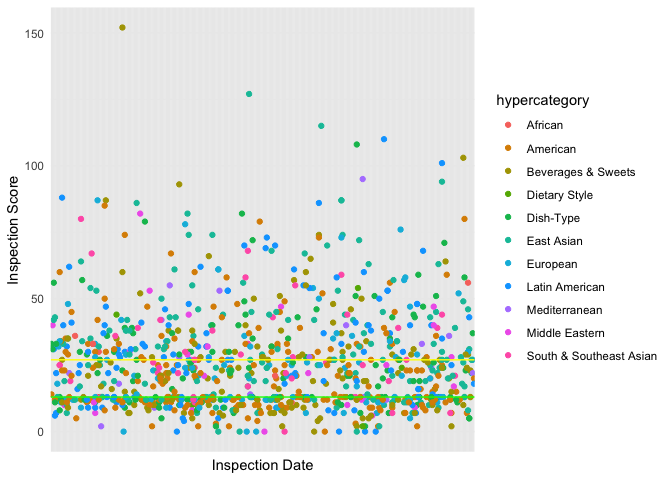
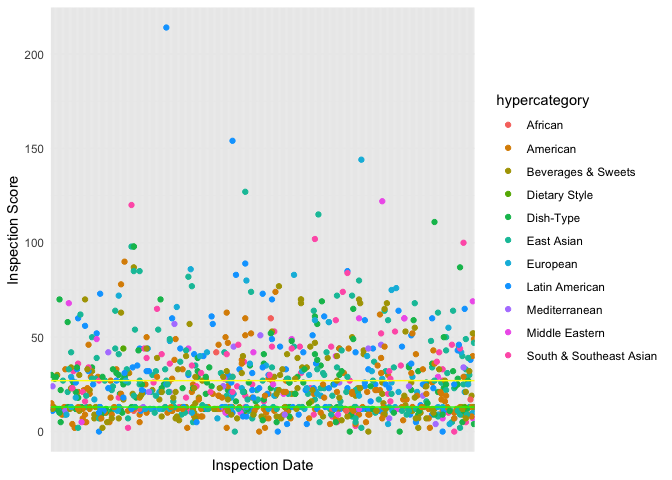
Knitting markdown

diff --git a/group_analysis.md b/group_analysis.md
@@ -1,0 +1,96 @@
+group_analysis
+================
+
+# First Research Question
+
+One of the main things we wanted to look at is how health inspection
+scores change for the same type of cuisine across different boroughs or
+neighborhoods. For example, there are Greek restaurants in both
+Manhattaan and Queens. Assuming the distribution of quality is similar
+in both boroughs, do we expect to see a difference in health score
+ratings?
+
+## Applying Hamza’s Notes
+
+Our dataset currently contains 90 different types of cuisines; however,
+many of them can be grouped together. For example `Chinese` and
+`Japanese` can be grouped together to simply be `East Asian`, especially
+because there’s another group called `Chinese\Japanese`.
+
+We can also drop some restaurants from our dataset for this research
+question, as there are some restaurants who are classified as `""` and
+`Not Specified / Other`. After grouping into super-groups, we now have
+10 types of cuisines:
+
+1.  American
+2.  East Asian
+3.  South & Southeast Asian
+4.  Latin American
+5.  European
+6.  Mediterranean
+7.  Middle Eastern
+8.  African
+9.  Specific Dishes (Restaurants that only do Sandwiches, Bagels,
+    Crepes, etc.)
+10. Dietary Specific (Vegan, Gluten-Free, Vegetarian restaurants)
+
+Now, the data looks something like:
+
+``` r
+head(df %>% dplyr::select(score, borough, cuisine, hypercategory))
+```
+
+    ##   score   borough   cuisine  hypercategory
+    ## 1    23 Manhattan   Chinese     East Asian
+    ## 2    12  Brooklyn Caribbean Latin American
+    ## 3    51 Manhattan   Chinese     East Asian
+    ## 4     0  Brooklyn   Chicken      Dish-Type
+    ## 5    12 Manhattan  Japanese     East Asian
+    ## 6    13     Bronx   Chinese     East Asian
+
+Now for an initial exploratory analysis with graphs. Important to keep
+in mind that lower scores are better.
+
+![](group_analysis_files/figure-gfm/unnamed-chunk-4-1.png)<!-- -->
+Scores on or below the green line are restaurants who earned a `A`
+grade. Restaurants who scored above the green line or under the yellow
+line are those who scored a `B` grade. Any scores above the yellow
+represent a `C` grade.
+
+It may help to also see how the score distribution by cuisine. For a
+clearer picture, I will take a random sample.
+
+![](group_analysis_files/figure-gfm/unnamed-chunk-5-1.png)<!-- -->
+
+From a quick glance, there seems to be a variety of restaurant types in
+each grade bucket in our sample. Diving into each cuisine type
+specifically,
+
+![](group_analysis_files/figure-gfm/unnamed-chunk-6-1.png)<!-- -->
+
+Time for regression:
+
+Across all boroughs, do the restaurant of the same cuisine type have the
+same expected score?
+
+``` r
+fit1 <- lm(score ~ factor(borough) * factor(hypercategory),
+           data = df)
+```
+
+Bronx is the baseline borough and African is the baseline hypercategory.
+
+``` r
+co <- coef(fit1)
+se <- sqrt(diag(vcov(fit1)))
+
+keep <- c("factor(borough)Brooklyn",
+          "factor(borough)Manhattan",
+          "factor(borough)Queens",
+          "factor(borough)Staten Island")
+
+arm::coefplot(co[keep], sds = se[keep],
+              col.pts = "blue")
+```
+
+![](group_analysis_files/figure-gfm/unnamed-chunk-8-1.png)<!-- -->